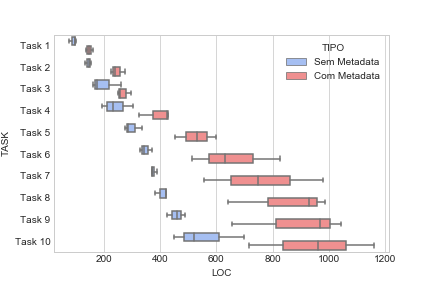
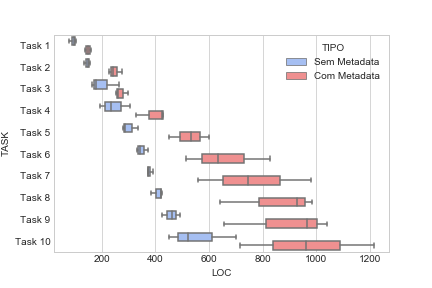
Update files

diff --git a/FindMetrics/noob.py b/FindMetrics/noob.py
@@ -43,17 +43,6 @@ def plotLineGraf(hashMap,labelx,labely):
     plt.xlabel(labelx)
     plt.show()
 
-def separavalores(hashMap,hashSemMetadata,hashComMetadata):
-    for key, value in hashMap.items():
-        if "Nardes" in key:
-            hashComMetadata.setdefault(key,value)
-        elif "Guerra" in key:
-            hashSemMetadata.setdefault(key,value)
-        elif "exp1groupA" in key:
-            hashSemMetadata.setdefault(key,value)
-        elif "exp1groupB" in key:
-            hashComMetadata.setdefault(key,value)
-
 
 def calcularMedia(hashElement):
     print"nao implementado"
@@ -113,7 +102,7 @@ def calcularDp(hashElement):
 
     
 
-def plotBar(hash,figname,a, b,c):
+def plotBarGraf(hash,figname,a, b,c):
     pdd = pd.DataFrame(columns=[a, b,c])
     for key, value in hash.items():
         for x in range(0, len(value)):
@@ -129,7 +118,6 @@ def plotBar(hash,figname,a, b,c):
     
     sns.set_style("whitegrid")
 
-    tips = sns.load_dataset("tips")
     flatui = ["#99bbff", "#ff8080"]
     sns.set_palette(flatui)
     #sns.palplot(sns.color_palette())    
@@ -137,13 +125,9 @@ def plotBar(hash,figname,a, b,c):
     ax.get_figure().savefig(figname)
     ax.get_figure().clf()
 
-def plotBarGraf(hashMap):
-    print "nao implementado"
     
     
     
-hashSemMetadata={}
-hashComMetadata={}
 
 listCsv = list()
 hashMap={}
@@ -156,8 +140,7 @@ hashMap2={}
 getFieldList(listCsv, list, hashMap2, tamanho, 3)
 plotLineGraf(hashMap2,"Commits","WMC")
 
-separavalores(hashMap,hashSemMetadata,hashComMetadata)
 
-plotBar(hashMap,"loc.png","TIPO","TASK","LOC")
+plotBarGraf(hashMap,"loc.png","TIPO","TASK","LOC")
 
-plotBar(hashMap2,"wmc.png","TIPO","TASK","WMC")
+plotBarGraf(hashMap2,"wmc.png","TIPO","TASK","WMC")

diff --git a/FindMetrics/src/main/java/testmm/DevelopersVisitor2.java b/FindMetrics/src/main/java/testmm/DevelopersVisitor2.java
@@ -21,6 +21,10 @@ public class DevelopersVisitor2 implements CommitVisitor{
 		try {
 				int codeLine = 0;
 				int wmc = 0;
+				int cbo = 0;
+				int lcom = 0;
+				int nom =0;
+				int nof = 0;
 				System.out.println(repo.getPath());
 				
 				repo.getScm().checkout(commit.getHash());
@@ -34,6 +38,13 @@ public class DevelopersVisitor2 implements CommitVisitor{
 								
 						wmc+=result.getWmc();
 						
+						cbo+=result.getCbo();
+						
+						lcom+= result.getLcom();
+						
+						nom+= result.getNom();
+						
+						nof = result.getNof();
 					}
 				}
 				
@@ -42,7 +53,7 @@ public class DevelopersVisitor2 implements CommitVisitor{
 							repo.getPath(),
 							commit.getMsg(),
 							codeLine,
-							wmc
+							wmc,cbo,lcom,nom,nof
 						);
 				}
 				
